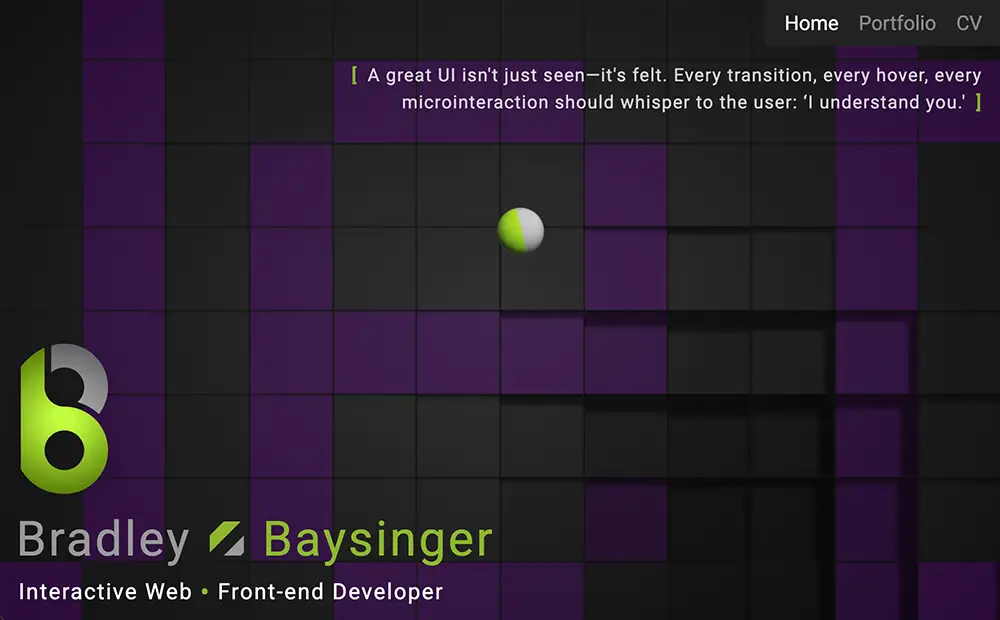
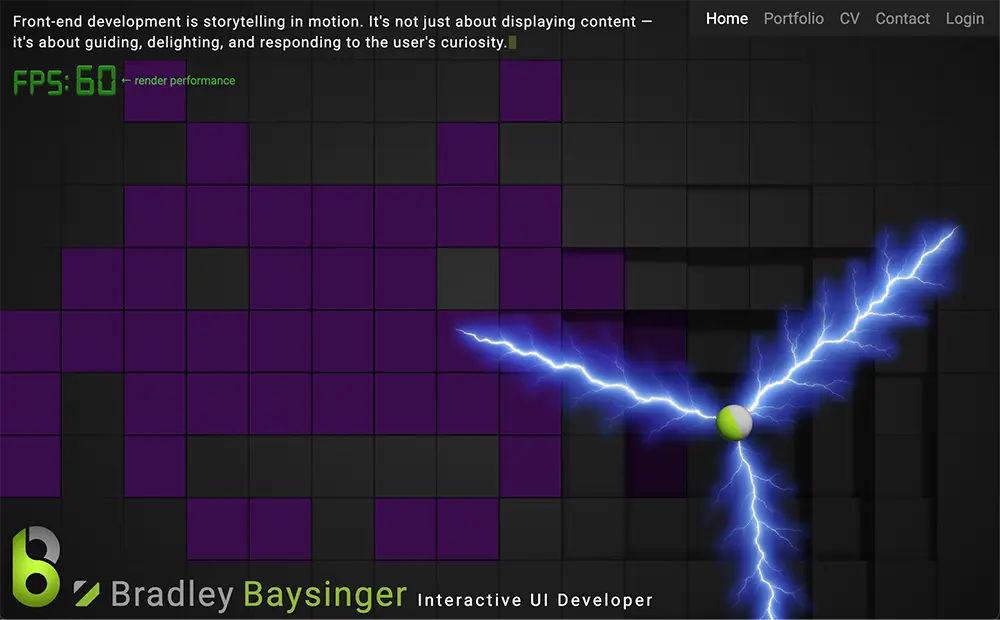
Updating screenshots of the portfolio site!

diff --git a/frontend/src/components/home-page/header-main/fluxel-grid/AnimationSequencer.tsx b/frontend/src/components/home-page/header-main/fluxel-grid/AnimationSequencer.tsx
@@ -28,7 +28,32 @@ interface AnimationMeta {
 }
 
 /**
+ * AnimationSequencer Component
  *
+ * This component plays weighted, randomized sprite sheet animations after a delay
+ * of user inactivity (i.e., no imperative triggers). Animations are rendered using
+ * the `SpriteSheetPlayer` component, which supports frame control and playback options.
+ *
+ * The sequencer:
+ * - Loads `.webp` sprite sheets based on viewport ratio (wide vs. narrow).
+ * - Randomly selects from a list of predefined animations with optional weighting.
+ * - Waits a defined delay between animations to reduce visual clutter.
+ * - Supports triggering specific animations imperatively via ref (e.g., on user interaction).
+ * - Uses absolute file paths for sprite sheet lookup.
+ * - Plays each animation once unless loop count is specified.
+ *
+ * Usage:
+ * - Pass a `ref` to the component to gain access to the `playImperativeAnimation()` method.
+ * - This method can be used to override the inactivity timer and play a specific animation.
+ *
+ * Note:
+ * - This component assumes a sprite naming convention based on resolution (e.g., "wide" or "narrow").
+ * - Animations are selected using a weighted random system, avoiding immediate repeats.
+ *
+ * Dependencies:
+ * - React
+ * - SpriteSheetPlayer (for sprite-based animation rendering)
+ * - SCSS module styles (AnimationSequencer.module.scss)
  *
  * @author Bradley Baysinger
  * @since The beginning of time.
@@ -59,6 +84,13 @@ const AnimationSequencer = forwardRef<
   };
 
   const inactivityAnimations: AnimationMeta[] = [
+    {
+      wide: "invaders_w16h12f105",
+      narrow: "invaders_w16h12f105",
+      fps: 10,
+      loops: 1,
+      weight: 2,
+    },
     {
       wide: "burst1_Layer-Comp-_w16h12f30",
       narrow: "burst1_Layer-Comp-_w16h12f30",
@@ -128,13 +160,6 @@ const AnimationSequencer = forwardRef<
       fps: 10,
       loops: 1,
       weight: 1,
-    },
-    {
-      wide: "invaders_w16h12f105",
-      narrow: "invaders_w16h12f105",
-      fps: 10,
-      loops: 1,
-      weight: 2,
     },
   ];
 
